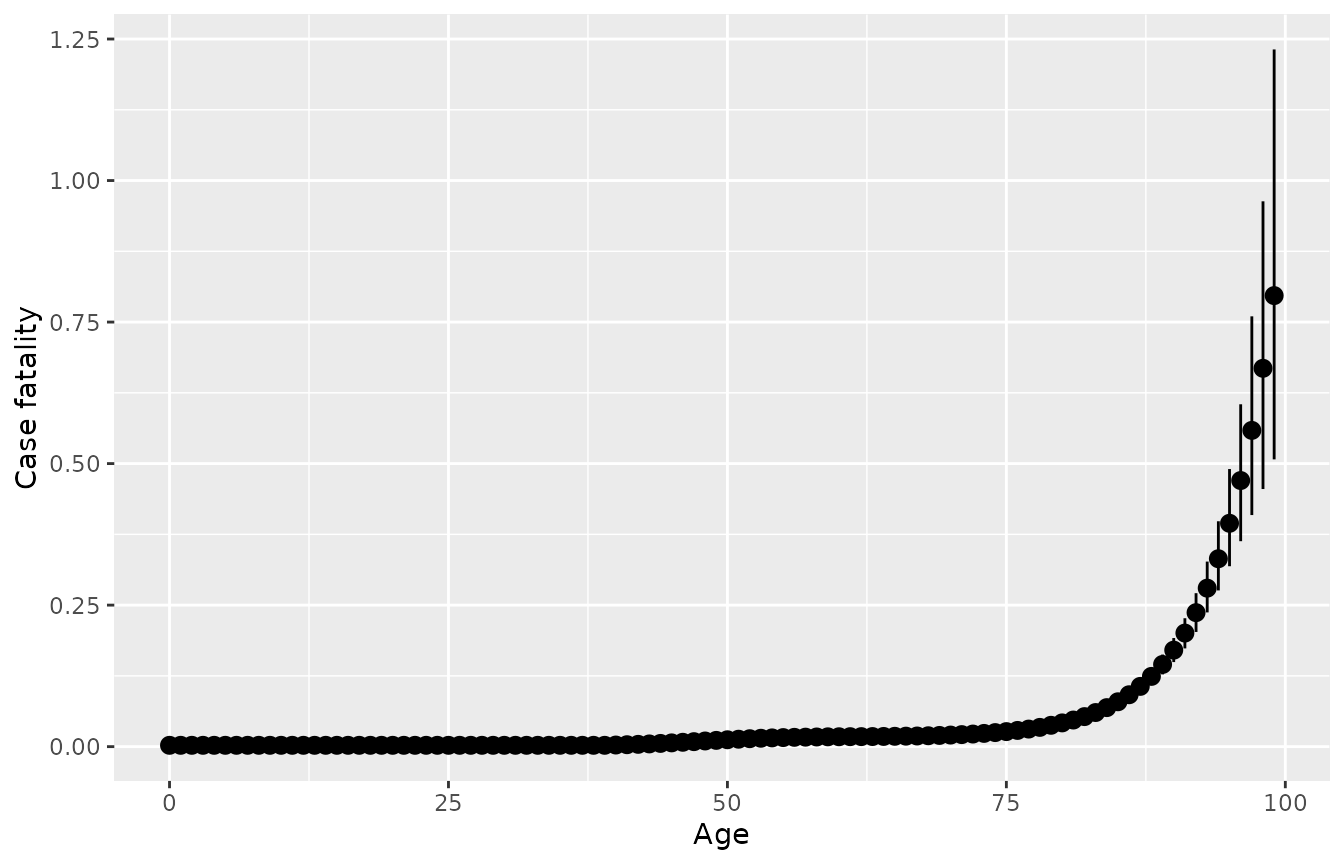
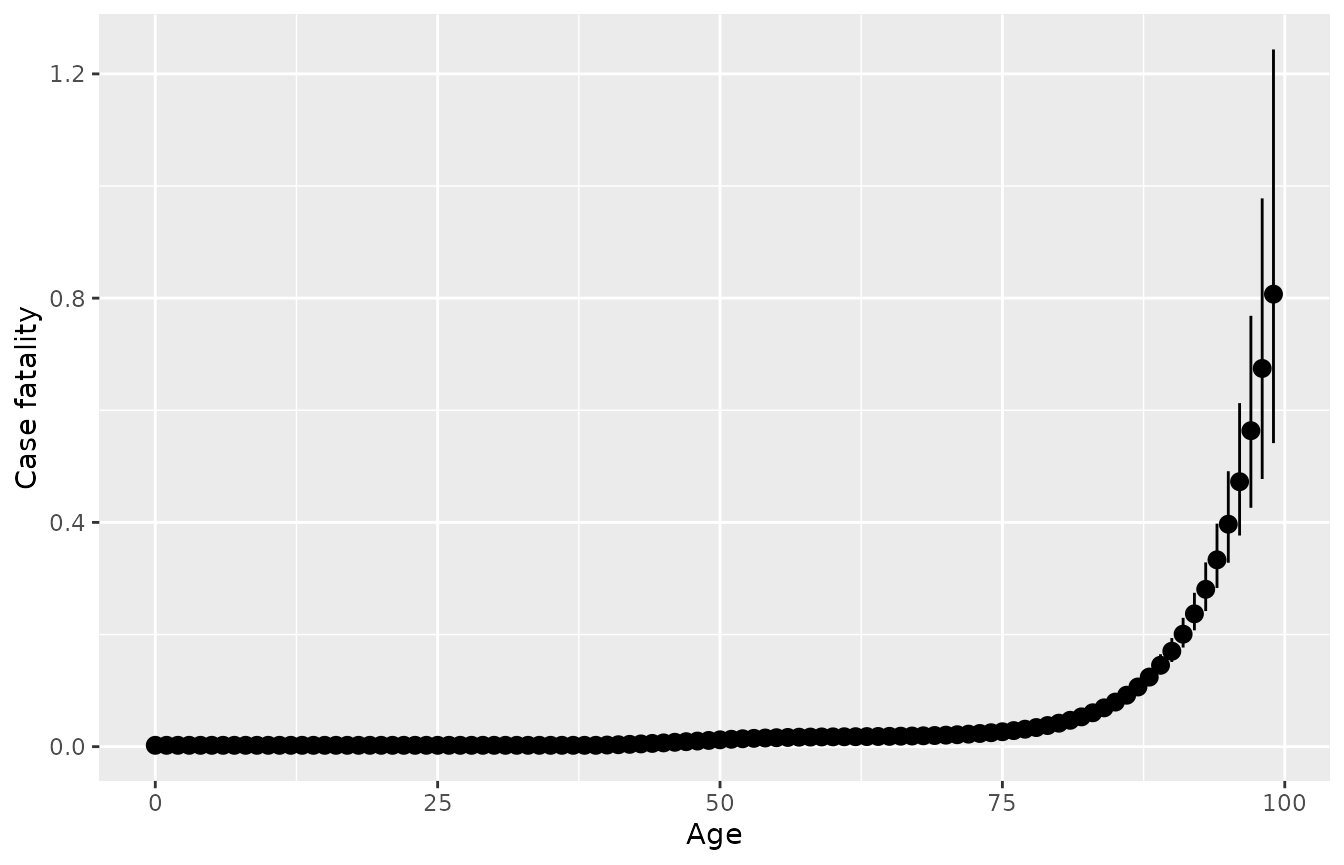
Built site for disbayes: 0.1@334b9ee

diff --git a/articles/disbayes.html b/articles/disbayes.html
@@ -74,7 +74,7 @@
                         <h4 class="author">Chris Jackson <a href="mailto:chris.jackson@mrc-bsu.cam.ac.uk" class="email">chris.jackson@mrc-bsu.cam.ac.uk</a>
 </h4>
             
-            <h4 class="date">2021-10-26</h4>
+            <h4 class="date">2021-10-27</h4>
       
       <small class="dont-index">Source: <a href="https://github.com/chjackson/disbayes/blob/master/vignettes/disbayes.Rmd"><code>vignettes/disbayes.Rmd</code></a></small>
       <div class="hidden name"><code>disbayes.Rmd</code></div>
@@ -339,12 +339,12 @@
   <span class="fu"><a href="https://dplyr.tidyverse.org/reference/filter.html">filter</a></span><span class="op">(</span><span class="va">var</span><span class="op">==</span><span class="st">"cf"</span>, <span class="fu"><a href="https://dplyr.tidyverse.org/reference/between.html">between</a></span><span class="op">(</span><span class="va">age</span>,<span class="fl">60</span>,<span class="fl">65</span><span class="op">)</span><span class="op">)</span> <span class="op">%&gt;%</span>
   <span class="fu"><a href="https://dplyr.tidyverse.org/reference/select.html">select</a></span><span class="op">(</span><span class="va">age</span>, <span class="va">`25%`</span>, <span class="va">`50%`</span>, <span class="va">`75%`</span><span class="op">)</span></code></pre></div>
 <pre><code>##   age        25%        50%        75%
-## 1  60 0.01617757 0.01747145 0.01875215
-## 2  61 0.01638168 0.01763001 0.01882998
-## 3  62 0.01648123 0.01771139 0.01896230
-## 4  63 0.01667684 0.01785065 0.01914473
-## 5  64 0.01694534 0.01802959 0.01917896
-## 6  65 0.01718881 0.01828053 0.01931775</code></pre>
+## 1  60 0.01627540 0.01747831 0.01890166
+## 2  61 0.01648868 0.01764807 0.01902655
+## 3  62 0.01661822 0.01776714 0.01903634
+## 4  63 0.01681067 0.01796537 0.01912881
+## 5  64 0.01705140 0.01814977 0.01925340
+## 6  65 0.01728616 0.01837818 0.01945135</code></pre>
 <p>The default <code>plot</code> method for objects returned by <code>disbayes</code> plots the posterior summaries for case fatality, allowing a quick check of the model results. Or do <code><a href="https://rdrr.io/r/graphics/plot.default.html">plot(..., variable="inc")</a></code> for incidence. The function returns a <code>ggplot2</code> object that can be modified with <code>ggplot2</code> functions, e.g. to add axis labels.</p>
 <div class="sourceCode" id="cb17"><pre class="downlit sourceCode r">
 <code class="sourceCode R"><span class="kw"><a href="https://rdrr.io/r/base/library.html">library</a></span><span class="op">(</span><span class="va"><a href="https://ggplot2.tidyverse.org">ggplot2</a></span><span class="op">)</span>
